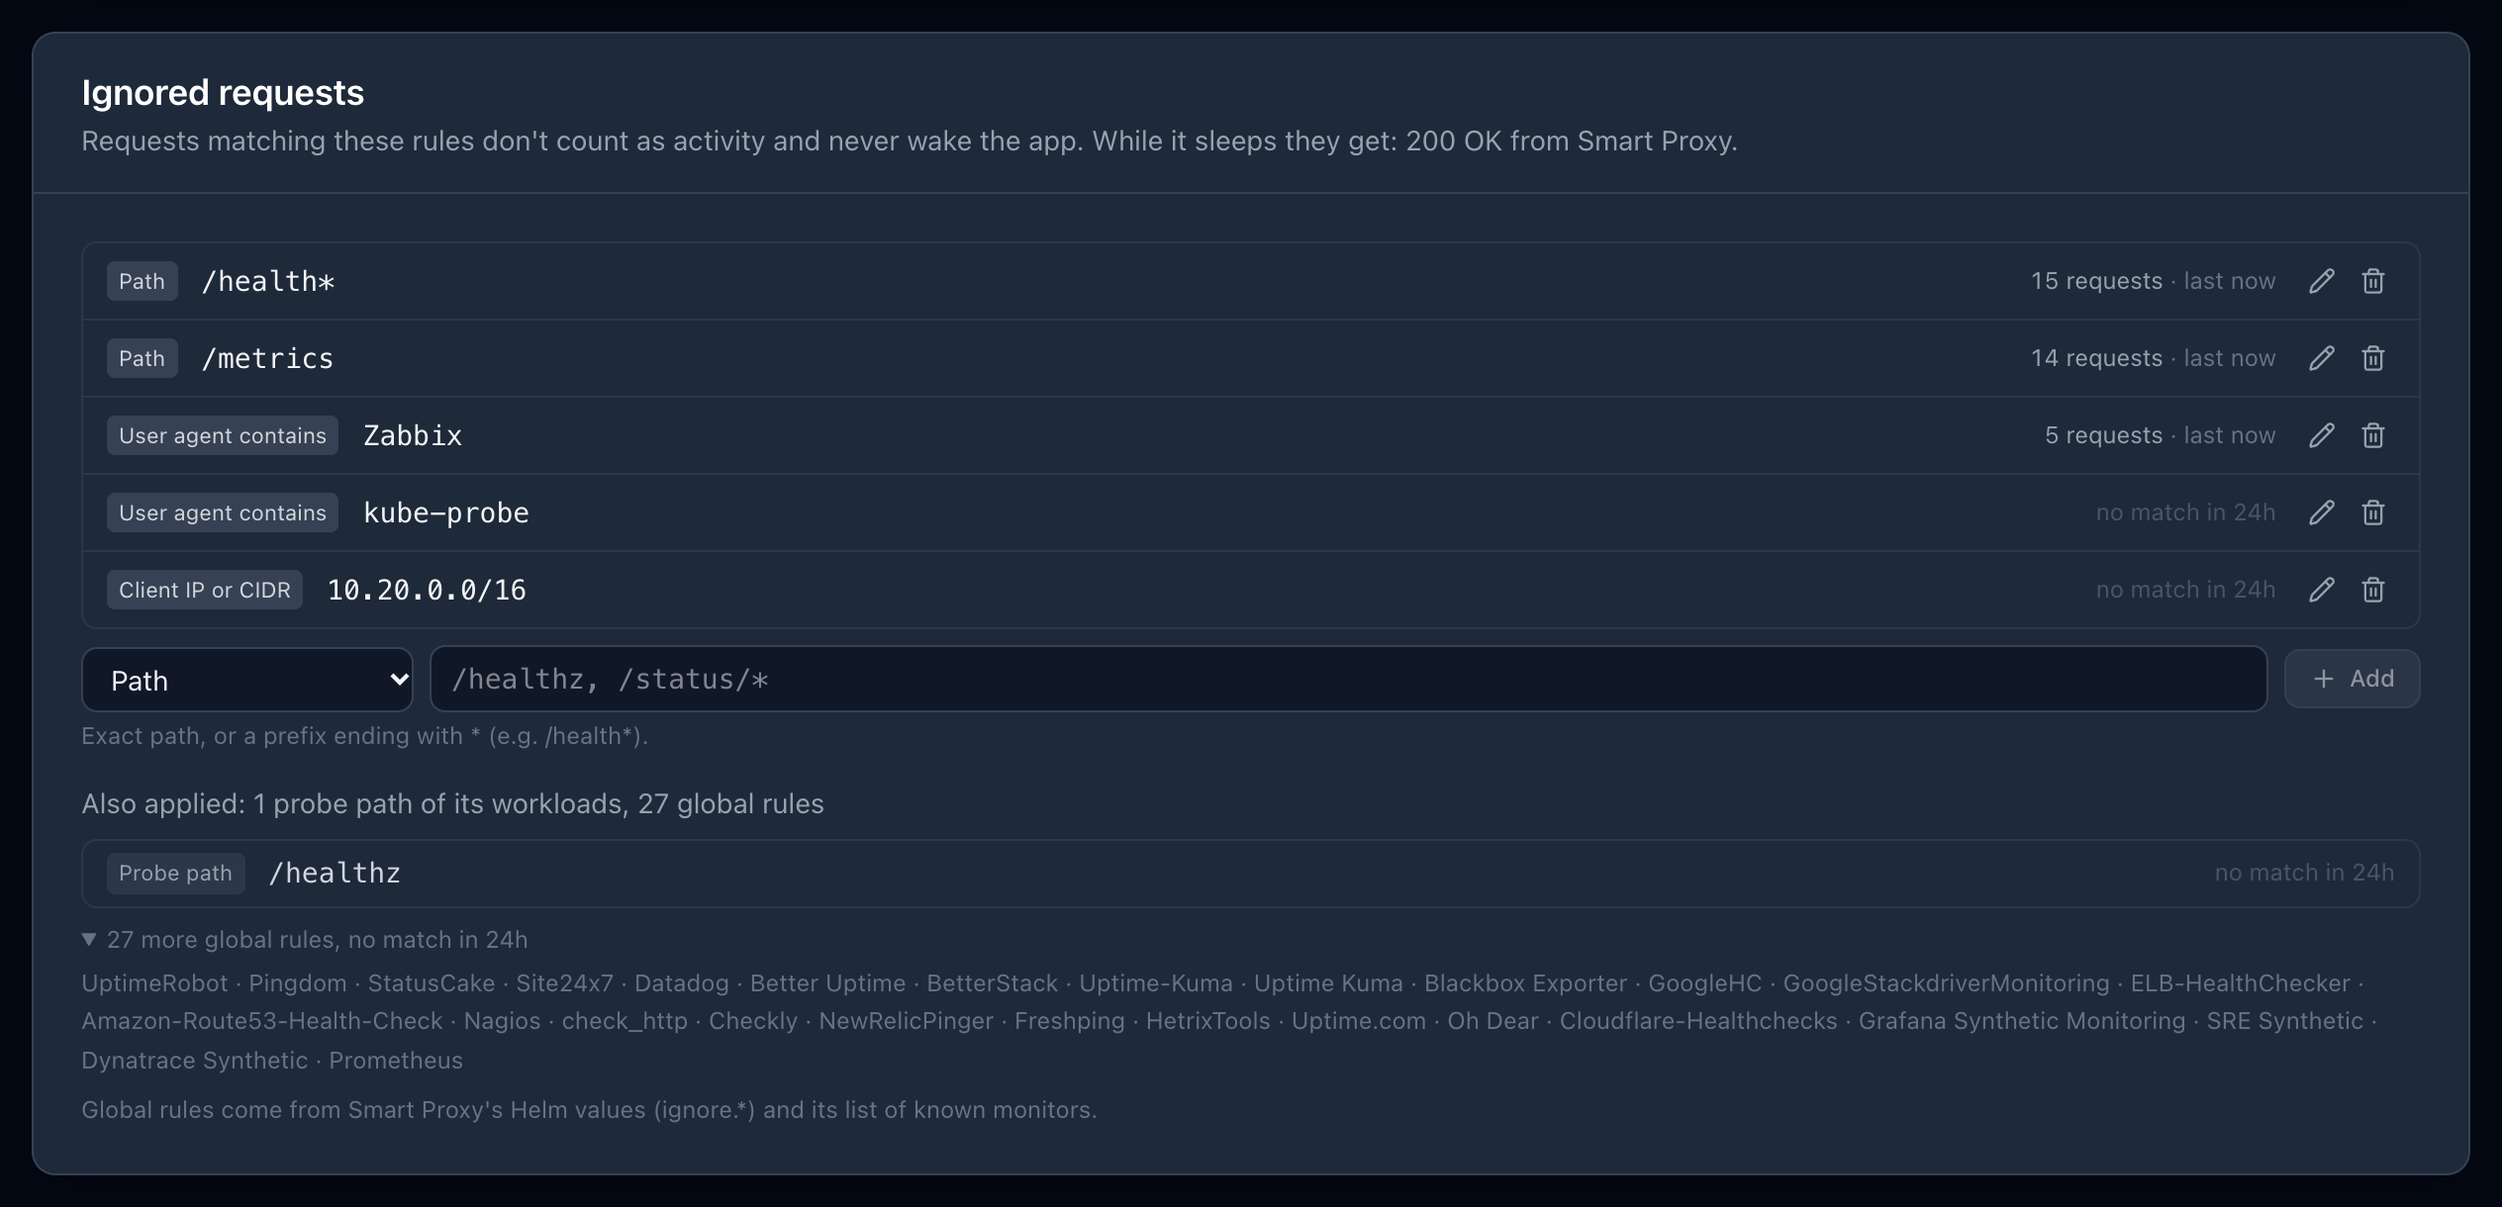
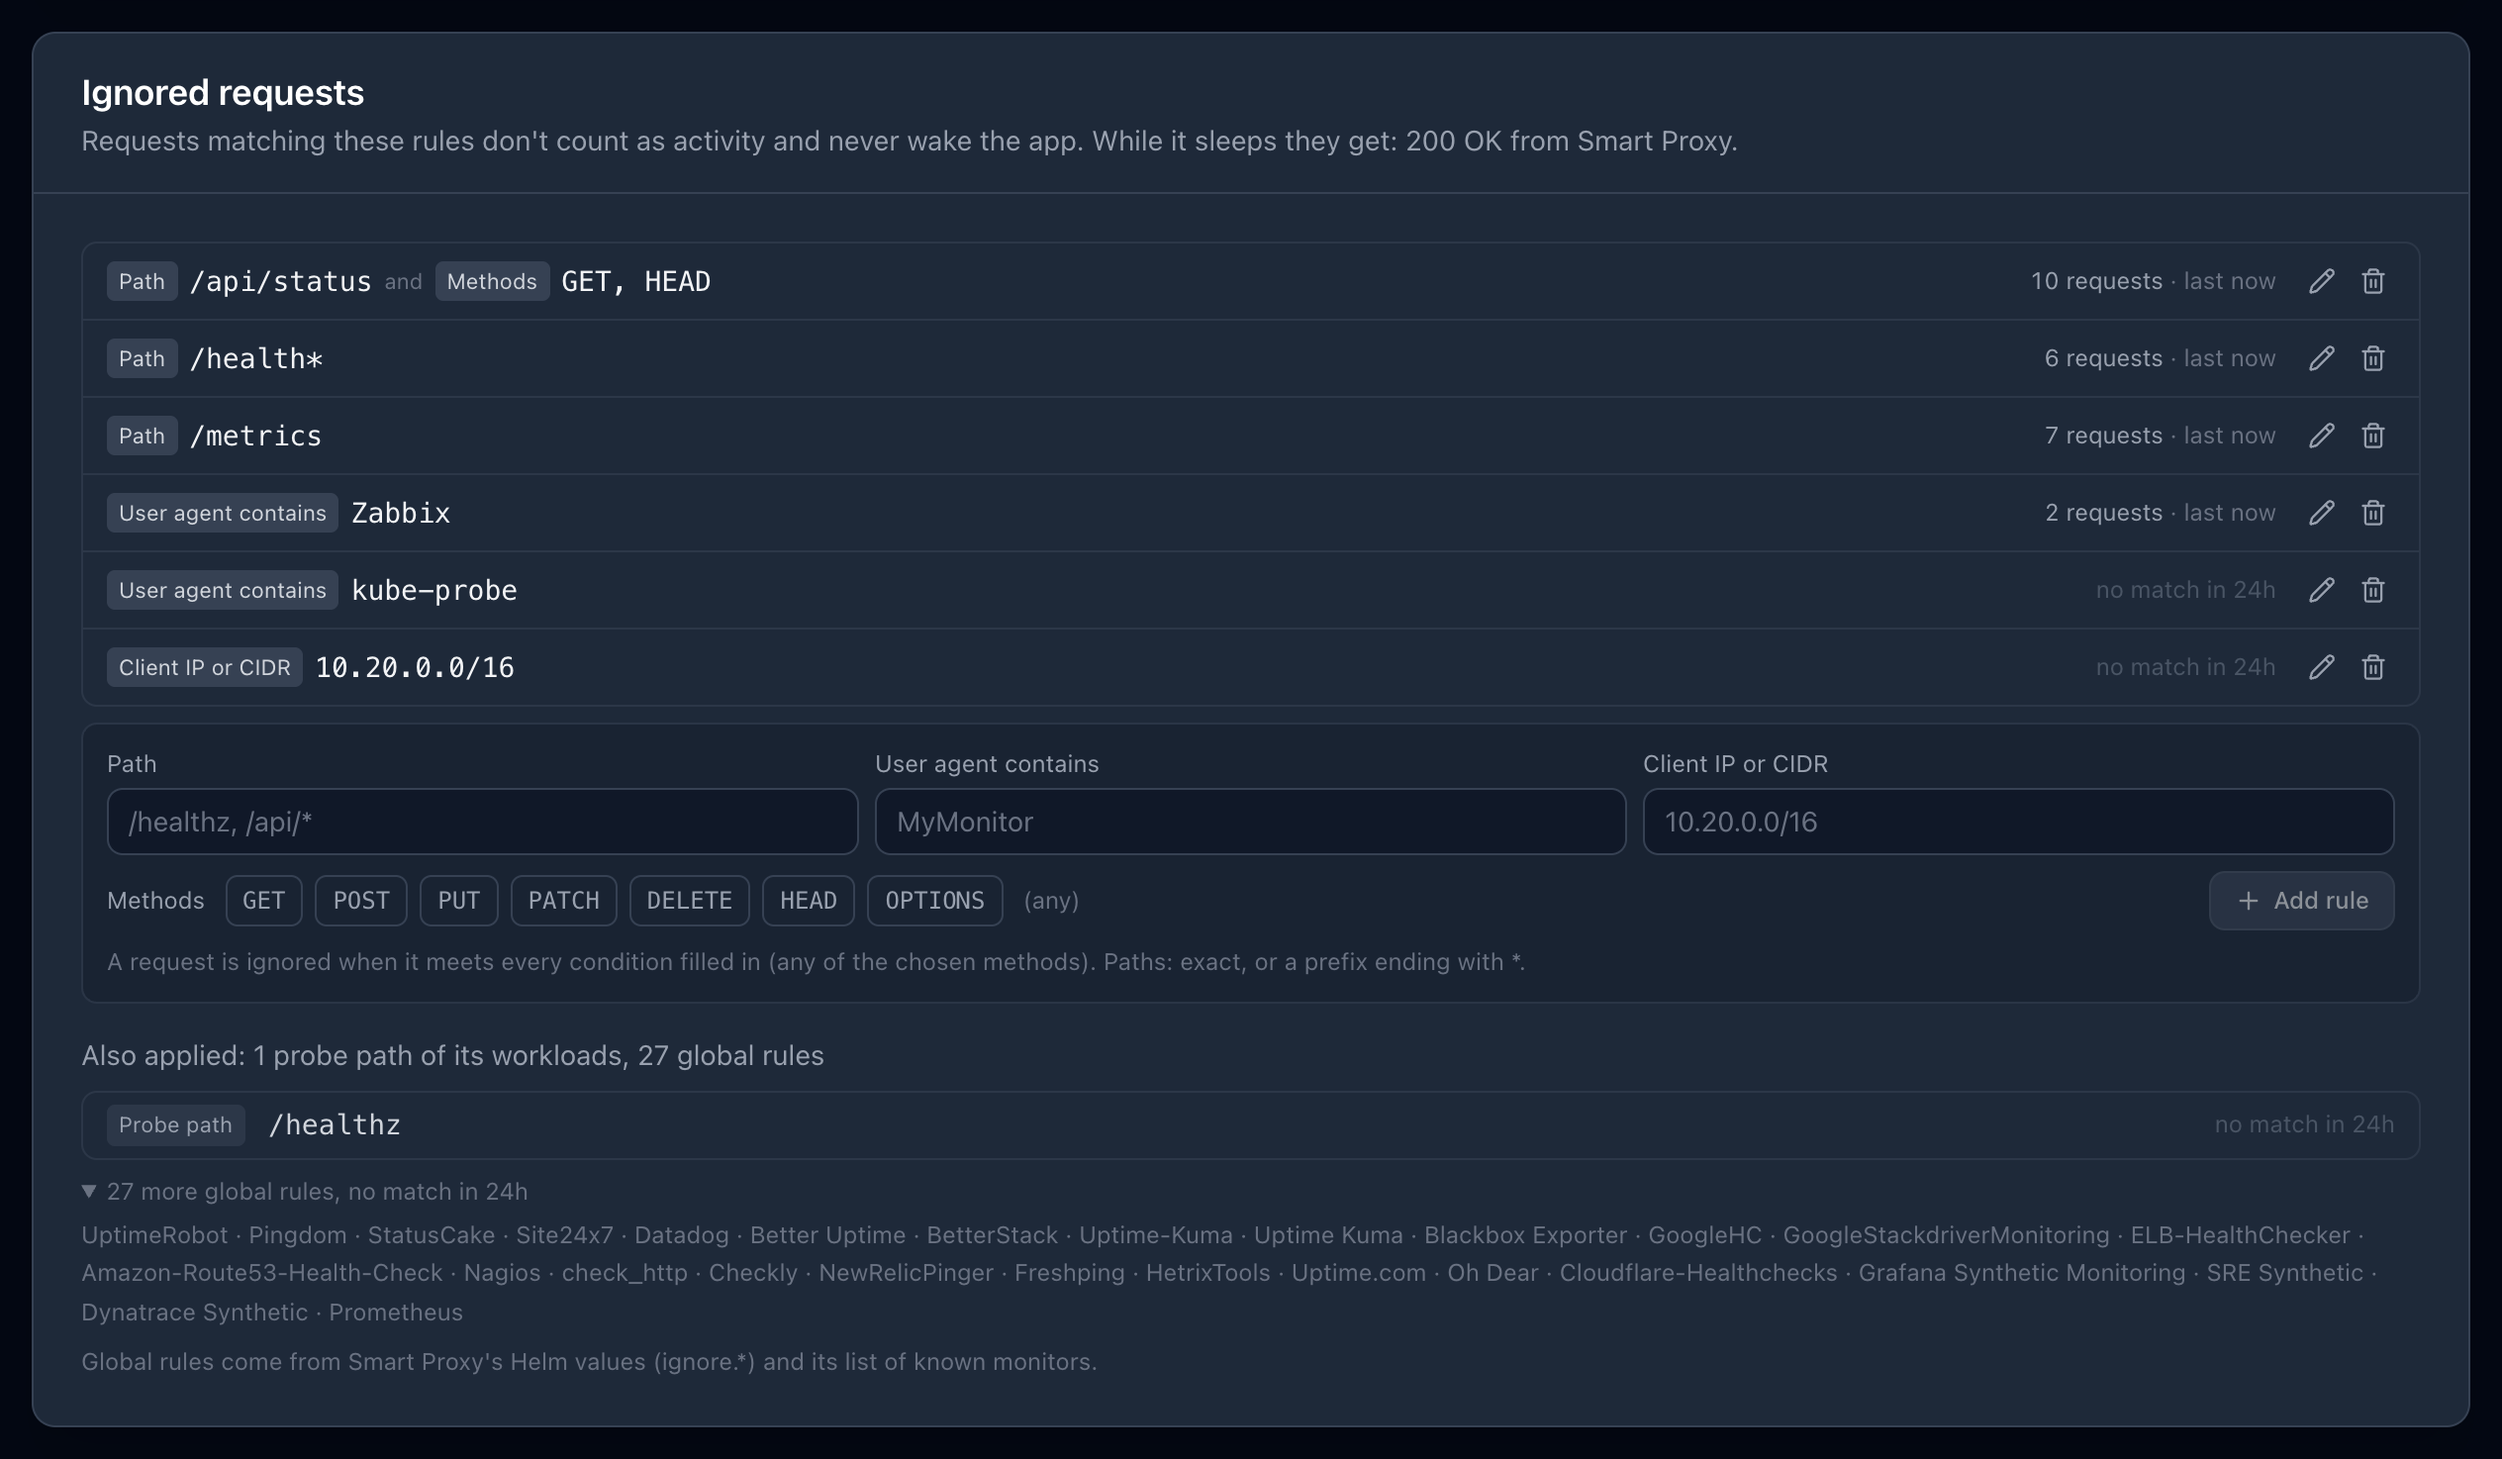
docs: combined ignore rules; the real waking page in the README

diff --git a/docs/routes.md b/docs/routes.md
@@ -69,7 +69,7 @@ The list shows the route as *Paused until 18:00*. When the pause ends the route 
 
 Requests from uptime monitors and health checks shouldn't keep an application awake, nor wake it. The **Ignored requests** card on a route's page lists the rules that apply to it, each with how many requests it matched in the last 24 hours and when it last did — a rule that never matches is probably wrong, one that matches too much probably is too:
 
-- **Its own rules**, one per line, to add, change or remove: a path (exact, or a prefix ending with `*`), a user agent (contains, ignoring case), a client IP or CIDR, a method.
+- **Its own rules**, one per line, to add, change or remove. A rule has one or more conditions, and a request must meet all of them: a path (exact, or a prefix ending with `*`), methods (any of those chosen), a user agent (contains, ignoring case), a client IP or CIDR. For example *path `/api/status` and methods GET, HEAD* ignores a status page polling that endpoint, while a `POST` to it still counts.
 - **Its workloads' probe paths** (from their Kubernetes probes), when called by something that isn't a browser.
 - **The global rules**: Smart Proxy's Helm values (`ignore.*`) and its list of known monitors.
 

diff --git a/README.md b/README.md
@@ -92,7 +92,7 @@ Optional tools on each route's page — routes that don't use them work as befor
 4. **Sleep** → after an idle timeout with no traffic, it scales the deployment back to zero.
 
 <p align="center">
-  <img src="media/waking-page.png" alt="The waking up page a browser sees while a sleeping application starts" width="420"/>
+  <img src="media/waking-page.png" alt="The waking up page a browser sees while a sleeping application and its dependencies start" width="460"/>
 </p>
 
 See the [Architecture overview](docs/architecture.md) for the details.
